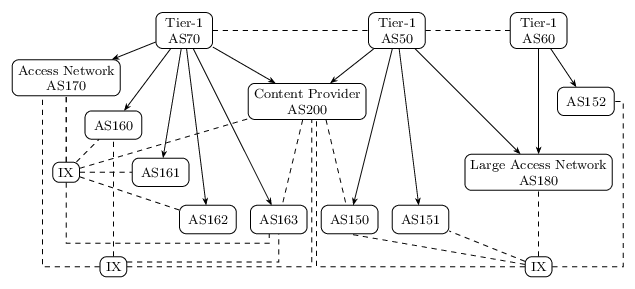
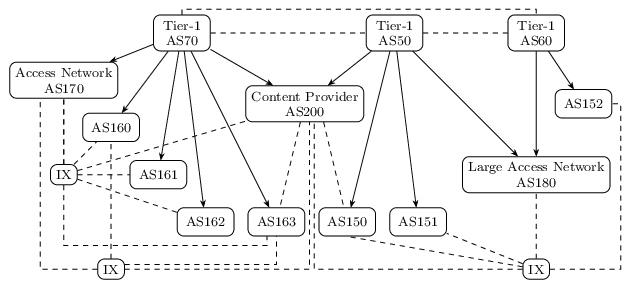
Add direct link between AS60 and AS70

diff --git a/examples/scion/S05-scion-internet/bgp-internet.py b/examples/scion/S05-scion-internet/bgp-internet.py
@@ -61,10 +61,12 @@ br.crossConnect(180, 'br0', xc_nets.next_addr('50-180'))
 br.crossConnect(200, 'br0', xc_nets.next_addr('50-200'))
 _, br = create_as(1, 60, is_core=True) # Tier-1 ISP
 br.crossConnect(50, 'br0', xc_nets.next_addr('50-60'))
+br.crossConnect(70, 'br0', xc_nets.next_addr('60-70'))
 br.crossConnect(152, 'br0', xc_nets.next_addr('60-152'))
 br.crossConnect(180, 'br0', xc_nets.next_addr('60-180'))
 _, br = create_as(1, 70, is_core=True) # Tier-1 ISP
 br.crossConnect(50, 'br0', xc_nets.next_addr('50-70'))
+br.crossConnect(60, 'br0', xc_nets.next_addr('60-70'))
 br.crossConnect(160, 'br0', xc_nets.next_addr('70-160'))
 br.crossConnect(161, 'br0', xc_nets.next_addr('70-161'))
 br.crossConnect(162, 'br0', xc_nets.next_addr('70-162'))
@@ -109,8 +111,9 @@ br.crossConnect(70, 'br0', xc_nets.next_addr('70-163'))
 br.crossConnect(200, 'br0', xc_nets.next_addr('163-200'))
 
 # BGP
-ebgp.addCrossConnectPeering(70, 50, PeerRel.Unfiltered)
-ebgp.addCrossConnectPeering(50, 60, PeerRel.Unfiltered)
+ebgp.addCrossConnectPeering(70, 50, PeerRel.Peer)
+ebgp.addCrossConnectPeering(50, 60, PeerRel.Peer)
+ebgp.addCrossConnectPeering(60, 70, PeerRel.Peer)
 ebgp.addCrossConnectPeering(70, 170, PeerRel.Provider)
 ebgp.addCrossConnectPeering(70, 160, PeerRel.Provider)
 ebgp.addCrossConnectPeering(70, 161, PeerRel.Provider)
@@ -138,6 +141,7 @@ for peer in peers_ix10:
 # SCION links
 scion.addXcLink((1, 70), (1, 50), ScLinkType.Core)
 scion.addXcLink((1, 50), (1, 60), ScLinkType.Core)
+scion.addXcLink((1, 60), (1, 70), ScLinkType.Core)
 scion.addXcLink((1, 70), (1, 170), ScLinkType.Transit)
 scion.addXcLink((1, 70), (1, 160), ScLinkType.Transit)
 scion.addXcLink((1, 70), (1, 161), ScLinkType.Transit)

diff --git a/examples/scion/S05-scion-internet/scion-internet.py b/examples/scion/S05-scion-internet/scion-internet.py
@@ -78,6 +78,7 @@ scion.addIxLink(5, (1, 52), (1, 53), ScLinkType.Transit, count=2)
 # Tier-1 ISP as60
 _, br = create_as(1, 60, is_core=True)
 br.crossConnect(50, 'br0', xc_nets.next_addr('50-60'))
+br.crossConnect(70, 'br0', xc_nets.next_addr('60-70'))
 br.crossConnect(103, 'br0', xc_nets.next_addr('60-103'))
 br.crossConnect(152, 'br0', xc_nets.next_addr('60-152'))
 br.crossConnect(180, 'br0', xc_nets.next_addr('60-180'))
@@ -85,6 +86,7 @@ br.crossConnect(180, 'br0', xc_nets.next_addr('60-180'))
 # Tier-1 ISP as70-73
 br = create_as(1, 70, is_core=True)[1].joinNetwork('ix7')
 br.crossConnect(50, 'br0', xc_nets.next_addr('50-70'))
+br.crossConnect(60, 'br0', xc_nets.next_addr('60-70'))
 br.crossConnect(110, 'br0', xc_nets.next_addr('70-110'))
 br.crossConnect(170, 'br0', xc_nets.next_addr('70-170'))
 br.crossConnect(200, 'br0', xc_nets.next_addr('70-200'))
@@ -190,6 +192,7 @@ scion.addIxLink(12, (1, 121), (1, 171), ScLinkType.Transit)
 # Core links
 scion.addXcLink((1, 50), (1, 60), ScLinkType.Core)
 scion.addXcLink((1, 50), (1, 70), ScLinkType.Core, count=2)
+scion.addXcLink((1, 60), (1, 70), ScLinkType.Core)
 scion.addXcLink((1, 50), (1, 201), ScLinkType.Core)
 scion.addXcLink((1, 60), (1, 103), ScLinkType.Core)
 scion.addXcLink((1, 70), (1, 200), ScLinkType.Core)
